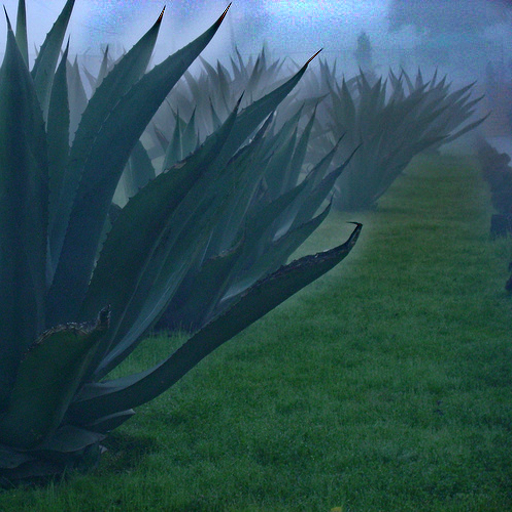
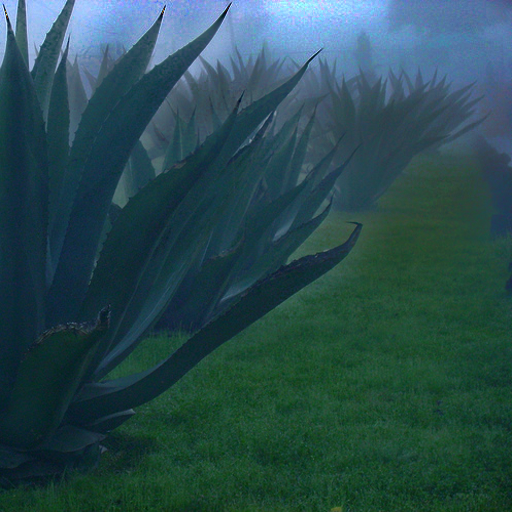
minor changes

diff --git a/dehazing-locally_adaptive.py b/dehazing-locally_adaptive.py
@@ -67,7 +67,7 @@ S = 19 # Defines the size of sliding-window (SxS) for Airlight estimation
 #f_sin = im[:,:,0:3]
 
 ## Read the input hazy image from drive
-imgName = 'maguey'
+imgName = 'flores'
 f_c = np.double( imread(imgName +".png") ) # Read Input Hazy Image
 
 ####################
@@ -114,8 +114,8 @@ A_est = 0.2989*A[0] + 0.5870*A[1] + 0.1140*A[2]
 t_est = np.zeros([Nr,Nc])
 trans = np.zeros([Nr,Nc])
 
-PAR = [19, 0.01, 1.0, 8.] # Parameters for maguey
-#PAR = [5, 0.01, 10.0, 4.0] # Parameters for flores
+#PAR = [15, 0.01, 1.0, 4.] # Parameters for maguey
+PAR = [9, 0.01, 10.0, 4.0] # Parameters for flores
 #PAR = [19, 0.6, 0.6, 6.] # Parameters for fuente
 
 S = PAR[0]      # Defines the size of sliding-window SxS
@@ -151,7 +151,7 @@ for k in range(Nr):
 print('Done!')
 
 #trans = denoise_tv_chambolle(t_est, weight=1000.0, multichannel=False)
-trans = guidedFilter(np.uint8(f_c),np.uint8(255*t_est),15,0.1) / 255.0
+trans = guidedFilter(np.uint8(f_c),np.uint8(255*t_est),30,0.1) / 255.0
 
 y[:,:,0] = (f_c[:,:,0] - A[0]) / trans + A[0]
 y[:,:,1] = (f_c[:,:,1] - A[1]) / trans + A[1] 
